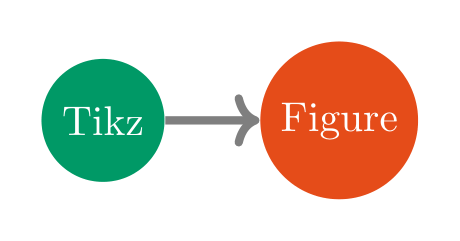
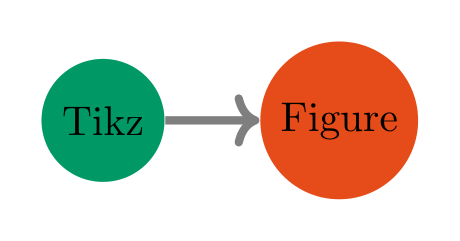
Updated readme

Changed region(s): [[0.6087, 0.4066, 0.8826, 0.5809], [0.1217, 0.4357, 0.3348, 0.5809]]

diff --git a/README.md b/README.md
@@ -21,10 +21,10 @@ from tikzfigure import TikzFigure
 
 fig = TikzFigure()
 
-n1 = fig.add_node(0, 0, shape="circle", color="white", fill="blue!40!green", content="Tikz")
-n2 = fig.add_node(2, 0, shape="circle", color="white", fill="purple!40!orange", content="Figure")
+n1 = fig.add_node(0, 0, shape="circle", fill="blue!40!green", content="Tikz")
+n2 = fig.add_node(2, 0, shape="circle", fill="purple!40!orange", content="Figure")
 
-fig.draw([n1, n2], options=["->", "line width=2"], color="gray")
+fig.draw([n1, n2], line_width=2, arrows="->", color="gray")
 
 fig.show()
 ```
@@ -44,9 +44,9 @@ print(fig)
     % https://github.com/max-models/tikzfigure      %
     % --------------------------------------------- %
     \begin{tikzpicture}
-        \node[shape=circle, color=white, fill=blue!40!green] (node0) at (0, 0) {Tikz};
-        \node[shape=circle, color=white, fill=purple!40!orange] (node1) at (2, 0) {Figure};
-        \draw[->, line width=2, color=gray] (node0) to (node1);
+        \node[shape=circle, fill=blue!40!green] (node0) at (0, 0) {Tikz};
+        \node[shape=circle, fill=purple!40!orange] (node1) at (2, 0) {Figure};
+        \draw[color=gray, line width=2, arrows=->] (node0) to (node1);
     \end{tikzpicture}
 
 Note that to visualize the plots in a popup or in jupyterlab, install
